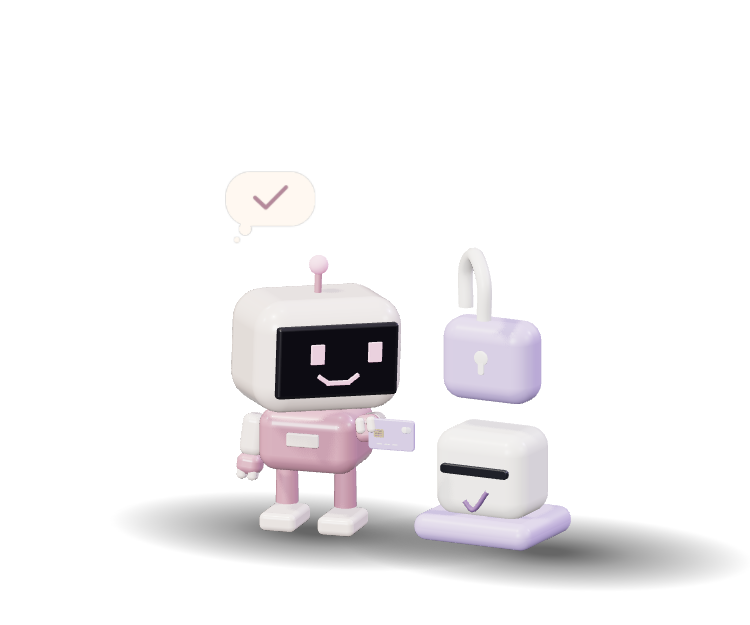
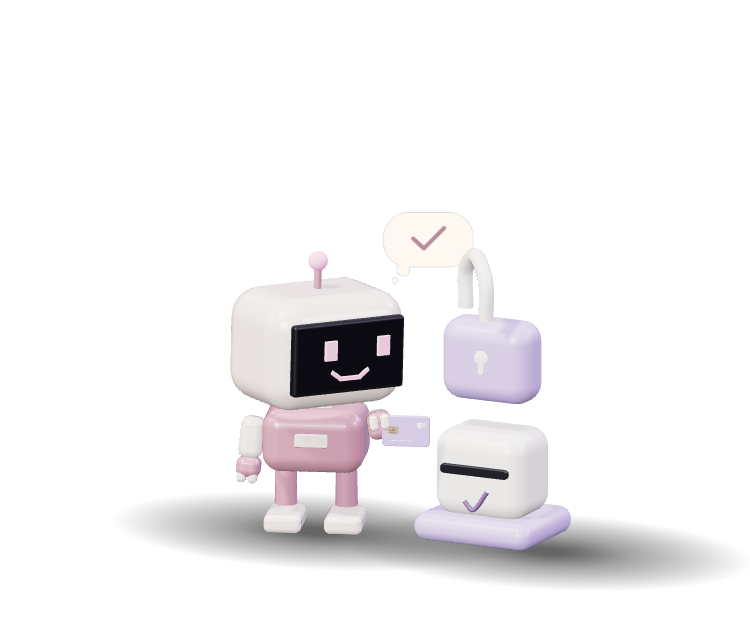
fix(web): Restore robot actions and planted walking

diff --git a/apps/web/src/components/ceramic-world.ts b/apps/web/src/components/ceramic-world.ts
@@ -97,8 +97,8 @@ export function mountCeramicScene(host: HTMLDivElement, kind: SceneKind, onReady
     ball(root, [.042, .042, .008], [.18, .08, .033], ceramic); ball(root, [.042, .042, .008], [.225, .08, .034], pearl); return root;
   }
   function wallet(parent: THREE.Object3D) {
-    const root = group(parent); round(root, [.88, .62, .07], [0, 0, -.085], .1, violet);
-    round(root, [.8, .54, .012], [0, .025, -.044], .065, dark);
+    const root = group(parent); round(root, [.88, .54, .07], [0, 0, -.085], .1, violet);
+    round(root, [.8, .46, .012], [0, .015, -.044], .065, dark);
     round(root, [.9, .45, .08], [0, -.105, .105], .085, lilac);
     for (const side of [-1, 1]) round(root, [.045, .39, .18], [side * .405, -.11, .015], .018, violet);
     round(root, [.80, .045, .18], [0, -.295, .015], .018, violet);
@@ -136,7 +136,7 @@ export function mountCeramicScene(host: HTMLDivElement, kind: SceneKind, onReady
     mesh(head, new THREE.CylinderGeometry(.025 * unit, .025 * unit, .17 * unit, 8), rose, [0, .45 * unit, 0]);
     mesh(head, new THREE.SphereGeometry(.065 * unit, 12, 8), lit, [0, .56 * unit, 0]);
     const pocketSide = kind === 'receipt' ? -1 : 1;
-    const pocket = group(root, [pocketSide * .28, .46, -.32]); pocket.visible = kind === 'receipt';
+    const pocket = group(root, [pocketSide * .28, .46, -.32]); pocket.visible = kind === 'receipt' || kind === 'hero';
     round(pocket, [.28, .23, .035], [0, 0, 0], .035, rose);
     round(pocket, [.28, .20, .035], [0, -.015, -.10], .035, rose);
     for (const side of [-1, 1]) round(pocket, [.025, .19, .10], [side * .127, -.015, -.05], .01, rose);
@@ -233,39 +233,96 @@ export function mountCeramicScene(host: HTMLDivElement, kind: SceneKind, onReady
   const bubbleTexture = new THREE.CanvasTexture(bubbleCanvas); bubbleTexture.colorSpace = THREE.SRGBColorSpace;
   const bubbleMaterial = new THREE.SpriteMaterial({ map: bubbleTexture, transparent: true, depthWrite: false, toneMapped: false }); spriteMaterials.push(bubbleMaterial);
   const thought = new THREE.Sprite(bubbleMaterial); thought.scale.set(.66, .50, 1); stage.add(thought);
+  const cameraRight = new THREE.Vector3(1, 0, 0).applyQuaternion(camera.quaternion);
+  let walking = false;
+  const footLift = [0, 0];
   const mood = (time: number, pleased: number) => {
     emotion = pleased; companion.mouth.scale.set(1 + pleased * .12, 1 + pleased * .30, 1);
-    thought.position.set(companion.root.position.x - .32, 2.03 + Math.sin(time * .8) * .025, companion.root.position.z);
+    thought.position.set(...worldPoint([0, companion.headRestY + .65 + Math.sin(time * .8) * .015, 0])).addScaledVector(cameraRight, .70);
     thought.material.opacity = .68 + pleased * .26;
-    companion.feet.forEach(foot => { foot.position.y = 0; });
+
     contactShadows[0].position.x = companion.root.position.x; contactShadows[0].position.z = companion.root.position.z;
   };
-  const cycle = kind === 'receipt' ? 10 : 8;
-  let stillTime = 3.5;
+  const walkBetween = (time: number, start: number, end: number, from: V3, to: V3, yaw: number, steps = 6) => {
+    const progress = THREE.MathUtils.clamp((time - start) / (end - start), 0, 1), phase = progress * steps;
+    companion.root.position.fromArray(from).lerp(new THREE.Vector3(...to), progress);
+    companion.root.rotation.y = yaw;
+    walking = time > start && time < end;
+    const delta = new THREE.Vector3(...to).sub(new THREE.Vector3(...from));
+    const inverse = new THREE.Quaternion().setFromAxisAngle(new THREE.Vector3(0, 1, 0), -yaw);
+    for (let i = 0; i < 2; i++) {
+      const shifted = phase - i;
+      const stride = shifted < 0 ? 0 : Math.floor(shifted / 2);
+      const local = shifted < 0 ? 0 : shifted - stride * 2;
+      const advance = shifted < 0 ? 0 : (stride * 2 + 2 * ease(Math.min(local, 1))) / steps;
+      footLift[i] = shifted < 0 || local >= 1 ? 0 : Math.sin(local * Math.PI) * .095;
+      const offset = delta.clone().multiplyScalar(advance - progress).applyQuaternion(inverse);
+      companion.feet[i].position.set(offset.x, footLift[i], offset.z);
+    }
+  };
+  const extractDirection = (lift: number): V3 => {
+    const phase = ease(lift), x = .65 * phase, y = .08 + .27 * phase; return [x, y, Math.sqrt(1 - x * x - y * y)];
+  };
+  const cardGrip: V3 = [.23, .12, -.02];
+  const addWallet = () => {
+    const purse = wallet(companion.root); purse.name = 'wallet'; purse.scale.setScalar(.48); purse.position.set(.1595, .45, .33);
+    curve(companion.root, [[-.24, .78, .28], [-.07, .66, .29], [.11, .54, .31]], .021, lilac);
+    return purse;
+  };
+  const cycle = kind === 'hero' ? 22 : kind === 'receipt' ? 10 : kind === 'policy' ? 11 : 9;
+  let stillTime = 7.7;
   if (kind === 'hero') {
-    const machine = terminal(stage); machine.root.name = 'terminal'; machine.root.scale.setScalar(.75); machine.root.position.set(.84, 0, .08);
-    const purse = wallet(companion.root); purse.name = 'wallet'; purse.scale.setScalar(.48); purse.position.set(-.25, .47, .39);
-    const tucked = card(purse); tucked.scale.setScalar(.70); tucked.position.set(0, .23, .016);
-    const payment = card(stage); payment.scale.setScalar(.50);
+    const machine = terminal(stage); machine.root.name = 'terminal'; machine.root.scale.setScalar(.75); machine.root.position.set(.8, 0, -.15);
+    round(machine.root, [.44, .035, .35], [.15, .65, .53], .015, pearl);
+    const purse = addWallet(), payment = card(stage); payment.name = 'payment-card'; payment.scale.setScalar(.50);
+    const home: V3 = [-.90, 0, .80], arrived: V3 = [1.55, 0, .72], departure: V3 = [1.55, 0, .94];
+    const pickup: V3 = [0, .35, Math.sqrt(1 - .35 * .35)], outward: V3 = [.75, .10, -.65], back: V3 = [0, 0, -1];
+    companion.root.position.set(...arrived); companion.root.rotation.y = Math.PI; companion.poseSleeve(1, pickup);
+    const receiptGrip: V3 = [.15, .29, .055];
+    const feedBase = palmPoint(1).sub(new THREE.Vector3(...receiptGrip));
+    const slip = receipt(stage, .22, .29); slip.name = 'active-paper'; const clipFeed = paperFeed(slip, feedBase.y);
+    const stored = receipt(companion.root, .22, .29); stored.name = 'stored-paper'; stored.position.set(.2395, .4035, -.375);
+    const resetCard = () => { payment.position.set(...worldPoint([.1595, .5991, .338974])); payment.rotation.set(0, companion.root.rotation.y, 0); };
     timers.push((time) => {
-      const t = time % cycle, present = ease((t - .8) / 1.4) * (1 - ease((t - 5.5) / 1.6));
-      companion.root.position.set(-.52 + present * .32, 0, .22); companion.root.rotation.y = .06 + present * .12;
-      companion.poseSleeve(0, [-.12, -.65, .75]);
-      companion.poseSleeve(1, blend([.18, -.85, .49], [.14, .16, .98], present));
-      placeInPalm(payment, 1, [-.17, .02, -.04]);
-      machine.lamp.material = present > .9 ? green : lilac;
-      companion.lookAtPoint([.84, 1.0, .45]); mood(t, present); receiptPhase = 'card-presented';
+      const t = time % cycle;
+      companion.root.position.set(...home); companion.root.rotation.y = .10;
+      if (t >= 2.2 && t < 2.7) companion.root.rotation.y = THREE.MathUtils.lerp(.10, Math.PI / 2, ease((t - 2.2) / .5));
+      else if (t >= 2.7 && t < 6.3) walkBetween(t, 2.7, 6.3, home, arrived, Math.PI / 2, 12);
+      else if (t >= 6.3 && t < 12.1) {
+        companion.root.position.set(...arrived);
+        companion.root.rotation.y = t < 7 ? THREE.MathUtils.lerp(Math.PI / 2, Math.PI, ease((t - 6.3) / .7)) : t < 11.4 ? Math.PI : THREE.MathUtils.lerp(Math.PI, Math.PI * 1.5, ease((t - 11.4) / .7));
+        if (t >= 11.4) walkBetween(t, 11.4, 12.1, arrived, departure, companion.root.rotation.y, 2);
+      } else if (t >= 12.1 && t < 15.7) walkBetween(t, 12.1, 15.7, departure, home, Math.PI * 1.5, 12);
+      else if (t >= 15.7) companion.root.rotation.y = t < 18 ? Math.PI * 1.5 : THREE.MathUtils.lerp(Math.PI * 1.5, TAU + .10, ease((t - 18) / 1.2));
+      companion.poseSleeve(0, restLeft);
+      const lift = ease((t - .5) / 1.1) * (1 - ease((t - 9.2) / .8));
+      const present = ease((t - 6.3) / .7) * (1 - ease((t - 8.4) / .8));
+      const carry = ease((t - 1.6) / .6) * (1 - ease((t - 6.3) / .7));
+      companion.poseSleeve(1, blend(blend(extractDirection(lift), extractDirection(0), carry), pickup, present));
+      purse.rotation.x = -.24 * Math.sin(lift * Math.PI);
+      if (t < 10) placeInPalm(payment, 1, cardGrip, .6 * carry + Math.PI * present); else resetCard();
+      if (t >= 10 && t < 10.8) companion.poseSleeve(1, blend(extractDirection(0), pickup, (t - 10) / .8));
+      else if (t >= 10.8) companion.poseSleeve(1, path(t, [[10.8, pickup], [11.4, [.70, .30, .64]], [12.1, outward], [15.7, outward], [16.7, back], [17.1, back], [17.8, [.28, -.5, -.82]], [18.5, restRight], [22, restRight]]));
+      const feed = ease((t - 8.1) / 1.4);
+      clipFeed(t < 10.8); slip.visible = t >= 8.1 && t < 17.1;
+      if (t < 10.8) { slip.position.copy(feedBase); slip.position.y -= .29 * (1 - feed); slip.rotation.set(0, 0, 0); }
+      else placeInPalm(slip, 1, receiptGrip, Math.PI * (1 - ease((t - 11.4) / .7)));
+      stored.visible = t < 11.4 || t >= 17.1;
+      machine.lamp.material = t > 7.2 && t < 10.2 ? green : lilac;
+      const gaze = t < 2.2 || t >= 9.2 && t < 10.8 ? [payment.position.x, payment.position.y, payment.position.z] as V3 : t < 11.4 ? [.8, 1.1, .20] as V3 : worldPoint([0, 1.0, 2]);
+      companion.lookAtPoint(gaze); mood(t, t >= 7.2 && t < 19 ? 1 : .15);
+      receiptPhase = t < 1.6 ? 'extract-card' : t < 2.7 ? 'turn-to-api' : t < 6.3 ? 'walk-to-api' : t < 8.4 ? 'present-card' : t < 10 ? 'return-card' : t < 10.8 ? 'reach-receipt' : t < 12.1 ? 'collect-receipt' : t < 15.7 ? 'walk-away' : t < 17.1 ? 'pocket-receipt' : 'stored';
     });
   } else if (kind === 'wallet') {
-    const purse = wallet(companion.root); purse.name = 'wallet'; purse.position.set(0, .48, .43); purse.scale.setScalar(.68);
-    const payment = card(purse); payment.scale.setScalar(.78); payment.position.set(-.04, .22, .014);
+    const purse = addWallet(), payment = card(stage); payment.name = 'payment-card'; payment.scale.setScalar(.5);
     timers.push((time) => {
-      const t = time % cycle, inspect = .5 - .5 * Math.cos(t / cycle * TAU);
-      companion.root.position.set(0, 0, .2); companion.root.rotation.y = -.12 + inspect * .15;
-      companion.poseSleeve(0, [-.12, -.40, .91]); companion.poseSleeve(1, [.12, -.40, .91]);
-      purse.rotation.x = -.04 * inspect; payment.position.y = .22 + .035 * inspect;
-      companion.lookAtPoint(worldPoint([0, .65, .95])); mood(t, inspect); receiptPhase = 'wallet-check';
-    });
+      const t = time % cycle, lift = ease((t - .6) / 1.5) * (1 - ease((t - 5.5) / 1.6));
+      companion.root.position.set(0, 0, .2); companion.root.rotation.y = -.12 + lift * .25;
+      companion.poseSleeve(0, restLeft); companion.poseSleeve(1, extractDirection(lift));
+      purse.rotation.x = -.24 * Math.sin(lift * Math.PI); placeInPalm(payment, 1, cardGrip);
+      companion.lookAtPoint([payment.position.x, payment.position.y, payment.position.z]); mood(t, lift);
+      receiptPhase = t < 2.1 ? 'extract-card' : t < 5.5 ? 'inspect-card' : t < 7.1 ? 'return-card' : 'stored';
+    }); stillTime = 3.5;
   } else if (kind === 'policy') {
     const station = group(stage, [.83, 0, .02]); station.name = 'policy'; station.scale.setScalar(.74);
     round(station, [1.1, .23, .92], [0, .13, 0], .11, lilac); round(station, [.85, .74, .65], [0, .59, 0], .17, ceramic);
@@ -275,12 +332,16 @@ export function mountCeramicScene(host: HTMLDivElement, kind: SceneKind, onReady
     const shackle = group(lock, [-.25, .29, 0]); curve(shackle, [[0, 0, 0], [0, .33, 0], [.25, .5, 0], [.5, .33, 0], [.5, 0, 0]], .065, ceramic);
     const payment = card(stage); payment.scale.setScalar(.5);
     timers.push((time) => {
-      const t = time % cycle, present = ease((t - .8) / 1.4) * (1 - ease((t - 5.4) / 1.6)), open = ease((t - 2.5) / .8) * (1 - ease((t - 5) / .8));
-      companion.root.position.set(-.45 + present * .18, 0, .28); companion.root.rotation.y = .16;
+      const t = time % cycle, present = ease((t - 2.5) / 1.1) * (1 - ease((t - 6.4) / 1)), open = ease((t - 4) / .8) * (1 - ease((t - 6.2) / .8));
+      companion.root.position.set(-.66, 0, .28); companion.root.rotation.y = .16;
+      if (t >= .8 && t < 2.4) walkBetween(t, .8, 2.4, [-.66, 0, .28], [-.27, 0, .28], Math.PI / 2, 2);
+      else if (t >= 2.4 && t < 7.8) { companion.root.position.set(-.27, 0, .28); companion.root.rotation.y = t < 2.9 ? THREE.MathUtils.lerp(Math.PI / 2, .35, ease((t - 2.4) / .5)) : t < 7.3 ? .35 : THREE.MathUtils.lerp(.35, -Math.PI / 2, ease((t - 7.3) / .5)); }
+      else if (t >= 7.8 && t < 9.4) walkBetween(t, 7.8, 9.4, [-.27, 0, .28], [-.66, 0, .28], -Math.PI / 2, 2);
+      else if (t >= 9.4) companion.root.rotation.y = THREE.MathUtils.lerp(-Math.PI / 2, .16, ease((t - 9.4) / .5));
       companion.poseSleeve(0, restLeft); companion.poseSleeve(1, blend([.18, -.85, .49], [.14, .16, .98], present));
       placeInPalm(payment, 1, [-.17, .02, -.04]);
       shackle.rotation.y = -open * .8; shackle.position.y = .29 + open * .14; approved.visible = open > .2;
-      companion.lookAtPoint([.83, 1.2, .1]); mood(t, open); receiptPhase = 'policy-check';
+      companion.lookAtPoint([.83, 1.2, .1]); mood(t, open); receiptPhase = t < 2.4 ? 'approach-policy' : t < 4 ? 'present-card' : t < 6.2 ? 'authorized' : t < 7.8 ? 'withdraw-card' : 'step-away';
     });
   } else {
     companion.root.position.set(.42, 0, .55); companion.root.rotation.y = -.25;
@@ -311,7 +372,7 @@ export function mountCeramicScene(host: HTMLDivElement, kind: SceneKind, onReady
     }); stillTime = 3.5;
   }
   function update(time: number) {
-
+    walking = false; footLift.fill(0); companion.feet.forEach(foot => foot.position.set(0, 0, 0));
     timers.forEach(animate => animate(time)); companion.head.position.y = companion.headRestY + Math.sin(time * 1.5) * .018;
     const blink = Math.pow(Math.max(0, Math.cos(time * 1.17)), 60); companion.eyes.forEach(eye => { eye.scale.y = (1 - blink * .92) * (1 - emotion * .16); });
   }
@@ -342,5 +403,5 @@ export function mountCeramicScene(host: HTMLDivElement, kind: SceneKind, onReady
     renderer.domElement.removeEventListener('webglcontextlost', contextLost); renderer.domElement.removeEventListener('webglcontextrestored', contextRestored);
     spriteMaterials.forEach(value => value.dispose()); bubbleTexture.dispose(); shadowMaterial.dispose(); shadowTexture.dispose(); environmentMap.dispose(); renderer.dispose(); renderer.domElement.remove();
   };
-  return Object.assign(dispose, { renderPose: (time: number) => { update(time); renderer.render(scene, camera); return { receiptPhase, bodyYaw: companion.root.rotation.y, headYaw: companion.head.rotation.y, sleeveLengths: companion.armJoints.map(([a, b]) => a.distanceTo(b)), sleeveCount: 2, limbDesign: 'single-sleeve' }; } });
+  return Object.assign(dispose, { renderPose: (time: number) => { update(time); renderer.render(scene, camera); return { receiptPhase, bodyYaw: companion.root.rotation.y, headYaw: companion.head.rotation.y, sleeveLengths: companion.armJoints.map(([a, b]) => a.distanceTo(b)), sleeveCount: 2, limbDesign: 'single-sleeve', cycle, walking, rootPosition: companion.root.position.toArray(), footLift: [...footLift], feetWorld: companion.feet.map((foot, index) => foot.localToWorld(new THREE.Vector3((index === 0 ? -1 : 1) * .19, 0, .052)).toArray()) }; } });
 }

diff --git a/apps/web/src/product-refinements.css b/apps/web/src/product-refinements.css
@@ -14,31 +14,12 @@
 .public-site .text-link:hover{background:#29252f;box-shadow:inset 4px 4px 9px #08070cb3,inset -3px -3px 8px #e5d6ff22;transform:none}
 .public-site .protocol{padding:35px 0 38px}
 .protocol .section-kicker{margin-bottom:30px}
-.payment-flow{display:grid;grid-template-columns:repeat(3,minmax(0,1fr) 54px) minmax(0,1fr);align-items:stretch}
-.flow-stage,.flow-stage:last-child{display:contents}
-.flow-stage article{padding:0;min-width:0;min-height:154px}
-.flow-number{display:inline-grid;place-items:center;width:32px;height:32px;border:1px solid #c6a8e83d;border-radius:50%;font:11px 'Geist Mono',monospace;color:#cdb9e5;background:#d7b5ff08}
-.protocol .flow-stage h3{font-size:22px;line-height:1.2;letter-spacing:-.025em;margin:14px 0 10px;width:fit-content}
-.protocol .flow-stage p{font-size:13px;line-height:1.65;max-width:205px;color:#aaa4b5}
-.flow-link{position:relative;width:38px;height:22px;align-self:center;justify-self:center;overflow:hidden;margin-top:2px;color:#c5b0de}
-.flow-track{position:absolute;left:0;right:4px;top:10px;height:1px;background:repeating-linear-gradient(to right,#9f8bb76b 0 2px,transparent 2px 5px)}
-.flow-arrow{position:absolute;right:2px;top:7px;width:7px;height:7px;border-right:1px solid currentColor;border-top:1px solid currentColor;transform:rotate(45deg)}
-.flow-pulse{position:absolute;left:-16px;top:9px;width:15px;height:3px;border-radius:4px;background:linear-gradient(90deg,transparent,#dcc9f2,#f6efff);box-shadow:0 0 5px #d8baf24d;animation:flow-transfer 2.8s cubic-bezier(.4,0,.6,1) infinite}
-.flow-stage:nth-child(2) .flow-pulse{animation-delay:-1.8s}.flow-stage:nth-child(3) .flow-pulse{animation-delay:-.9s}
-@keyframes flow-transfer{0%,12%{transform:translateX(0);opacity:0}25%,75%{opacity:1}90%,100%{transform:translateX(53px);opacity:0}}
 .feature-anatomy{display:block;width:76px;height:65px;margin-bottom:4px;overflow:visible}
 .prerequisites{margin:30px 0 40px}.prerequisites dl{display:grid;grid-template-columns:180px minmax(0,1fr);gap:20px 25px;margin:25px 0 0}.prerequisites dt{font-size:14px;color:#e4d9ef}.prerequisites dd{margin:0;font-size:14px;line-height:1.8;color:#aaa3b4}.prerequisites code{overflow-wrap:anywhere}
 .license-links{display:flex;align-items:center;flex-wrap:wrap;gap:20px;margin-top:30px}.license-links .text-link{margin-top:0}
 .chapter-body .prerequisites{padding:0}.prerequisites h2:first-child{margin-top:0}
 .payment-skyline{color:#bfa6dc}
-@media(max-width:900px) and (min-width:768px){.payment-flow{grid-template-columns:repeat(3,minmax(0,1fr) 40px) minmax(0,1fr)}.flow-link{width:30px}.protocol .flow-stage p{font-size:12px}}
 @media(max-width:767px){
-  .payment-flow{grid-template-columns:1fr;gap:0}
-  .flow-stage,.flow-stage:last-child{display:grid;grid-template-columns:minmax(0,1fr);grid-template-rows:auto 48px}
-  .flow-stage:last-child{grid-template-rows:auto}
-  .flow-stage article{min-height:0;display:grid;grid-template-columns:36px minmax(0,1fr);column-gap:16px;align-items:center}
-  .flow-number{grid-row:1/3}.protocol .flow-stage h3{margin:0 0 5px;font-size:23px}.protocol .flow-stage p{grid-column:2;max-width:100%}
-  .flow-link{transform:rotate(90deg);margin:0;justify-self:start;margin-left:0}
   .prerequisites dl{grid-template-columns:1fr;gap:8px}.prerequisites dd{margin-bottom:18px}.feature-anatomy{width:66px;height:57px}
 }
-@media(prefers-reduced-motion:reduce){.flow-pulse{animation:none;opacity:.7;left:10px;width:10px}.public-site .primary,.public-site .nav-console,.public-site .text-link{transition:none}}
+@media(prefers-reduced-motion:reduce){.public-site .primary,.public-site .nav-console,.public-site .text-link{transition:none}}

diff --git a/apps/web/src/components/AnatomyScene.tsx b/apps/web/src/components/AnatomyScene.tsx
@@ -3,8 +3,8 @@ import './ceramic-scenes.css';
 
 export type SceneKind = 'hero' | 'wallet' | 'policy' | 'receipt';
 const descriptions: Record<SceneKind, string> = {
-  hero: 'A cream and pink robot holds its wallet and presents a lilac payment card to an API terminal. Illustrative animation.',
-  wallet: 'A cream and pink robot checks a stitched lilac wallet held in its small hands. Illustrative animation.',
+  hero: 'A cream and pink robot takes a card from its visible wallet, walks to an API terminal, pays, collects a printed receipt, and stores it in its back pocket. Illustrative animation.',
+  wallet: 'A cream and pink robot lifts a payment card from a stitched lilac wallet, checks it, and returns it to the wallet. Illustrative animation.',
   policy: 'A cream and pink robot presents a payment card to an authorization station. Its lock opens after the card is checked. Illustrative animation.',
   receipt: 'A cream and pink robot takes a paper receipt from a small rounded printer and places it in its back pocket. Illustrative animation.',
 };
